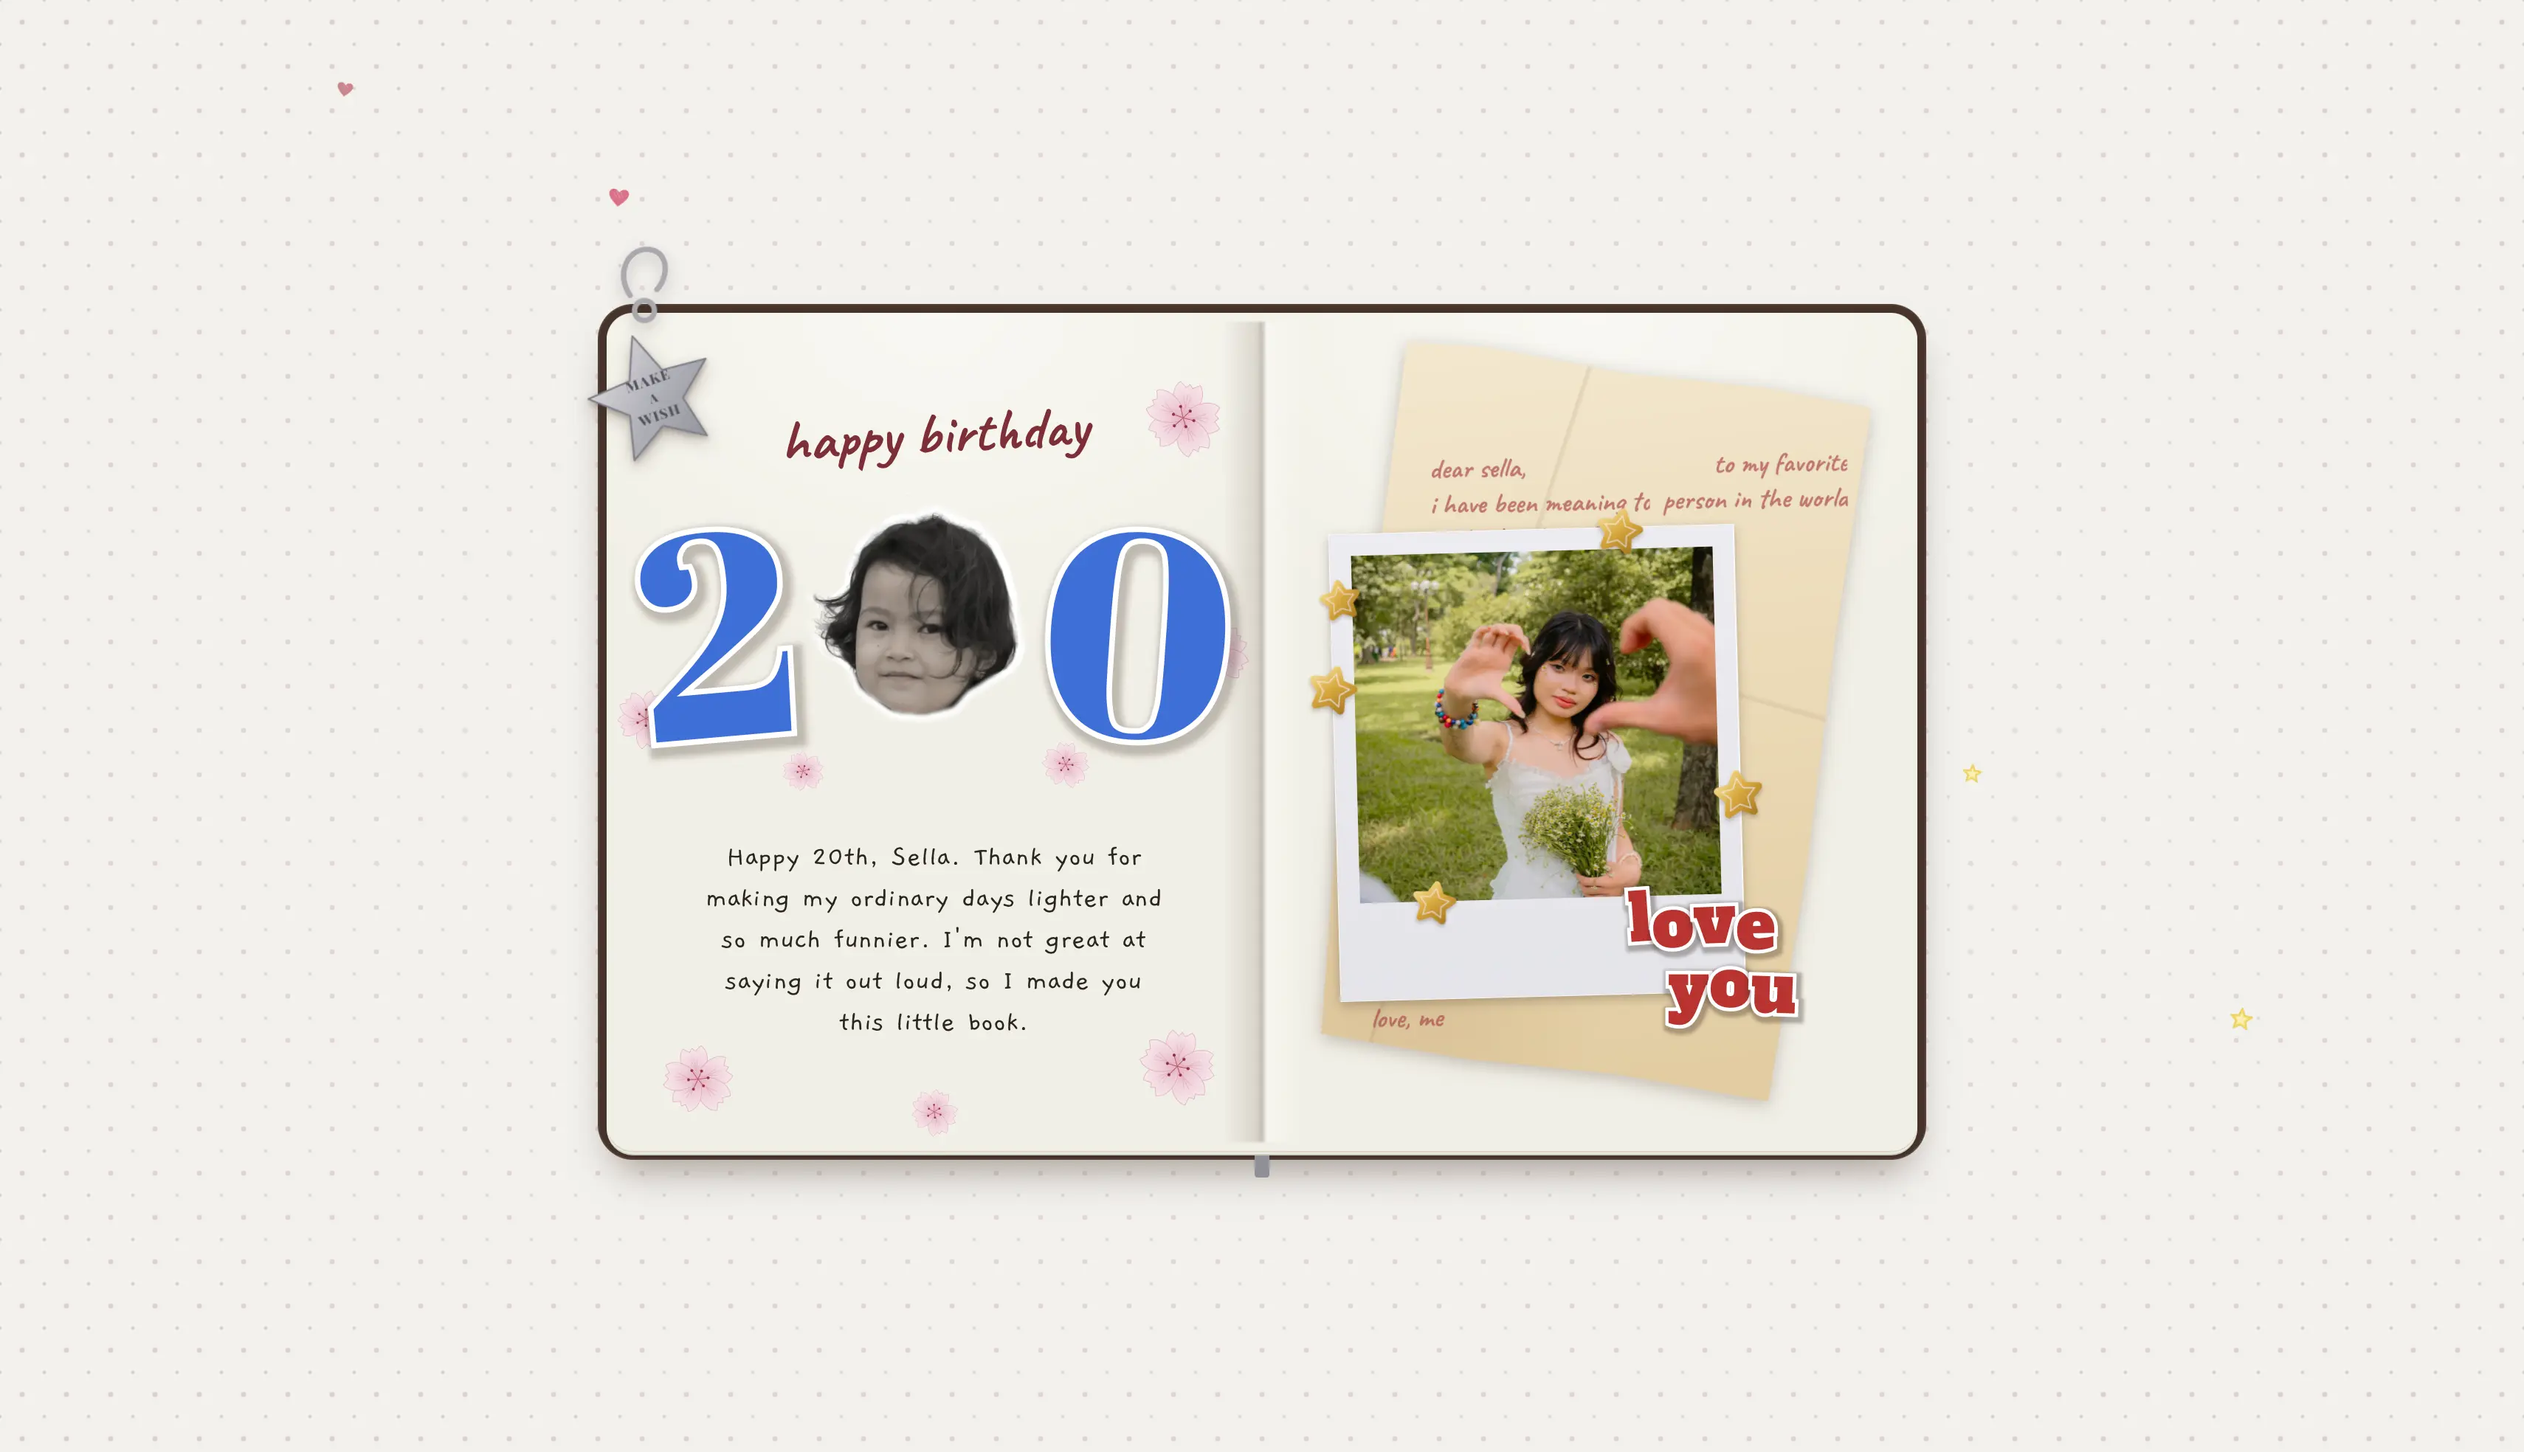
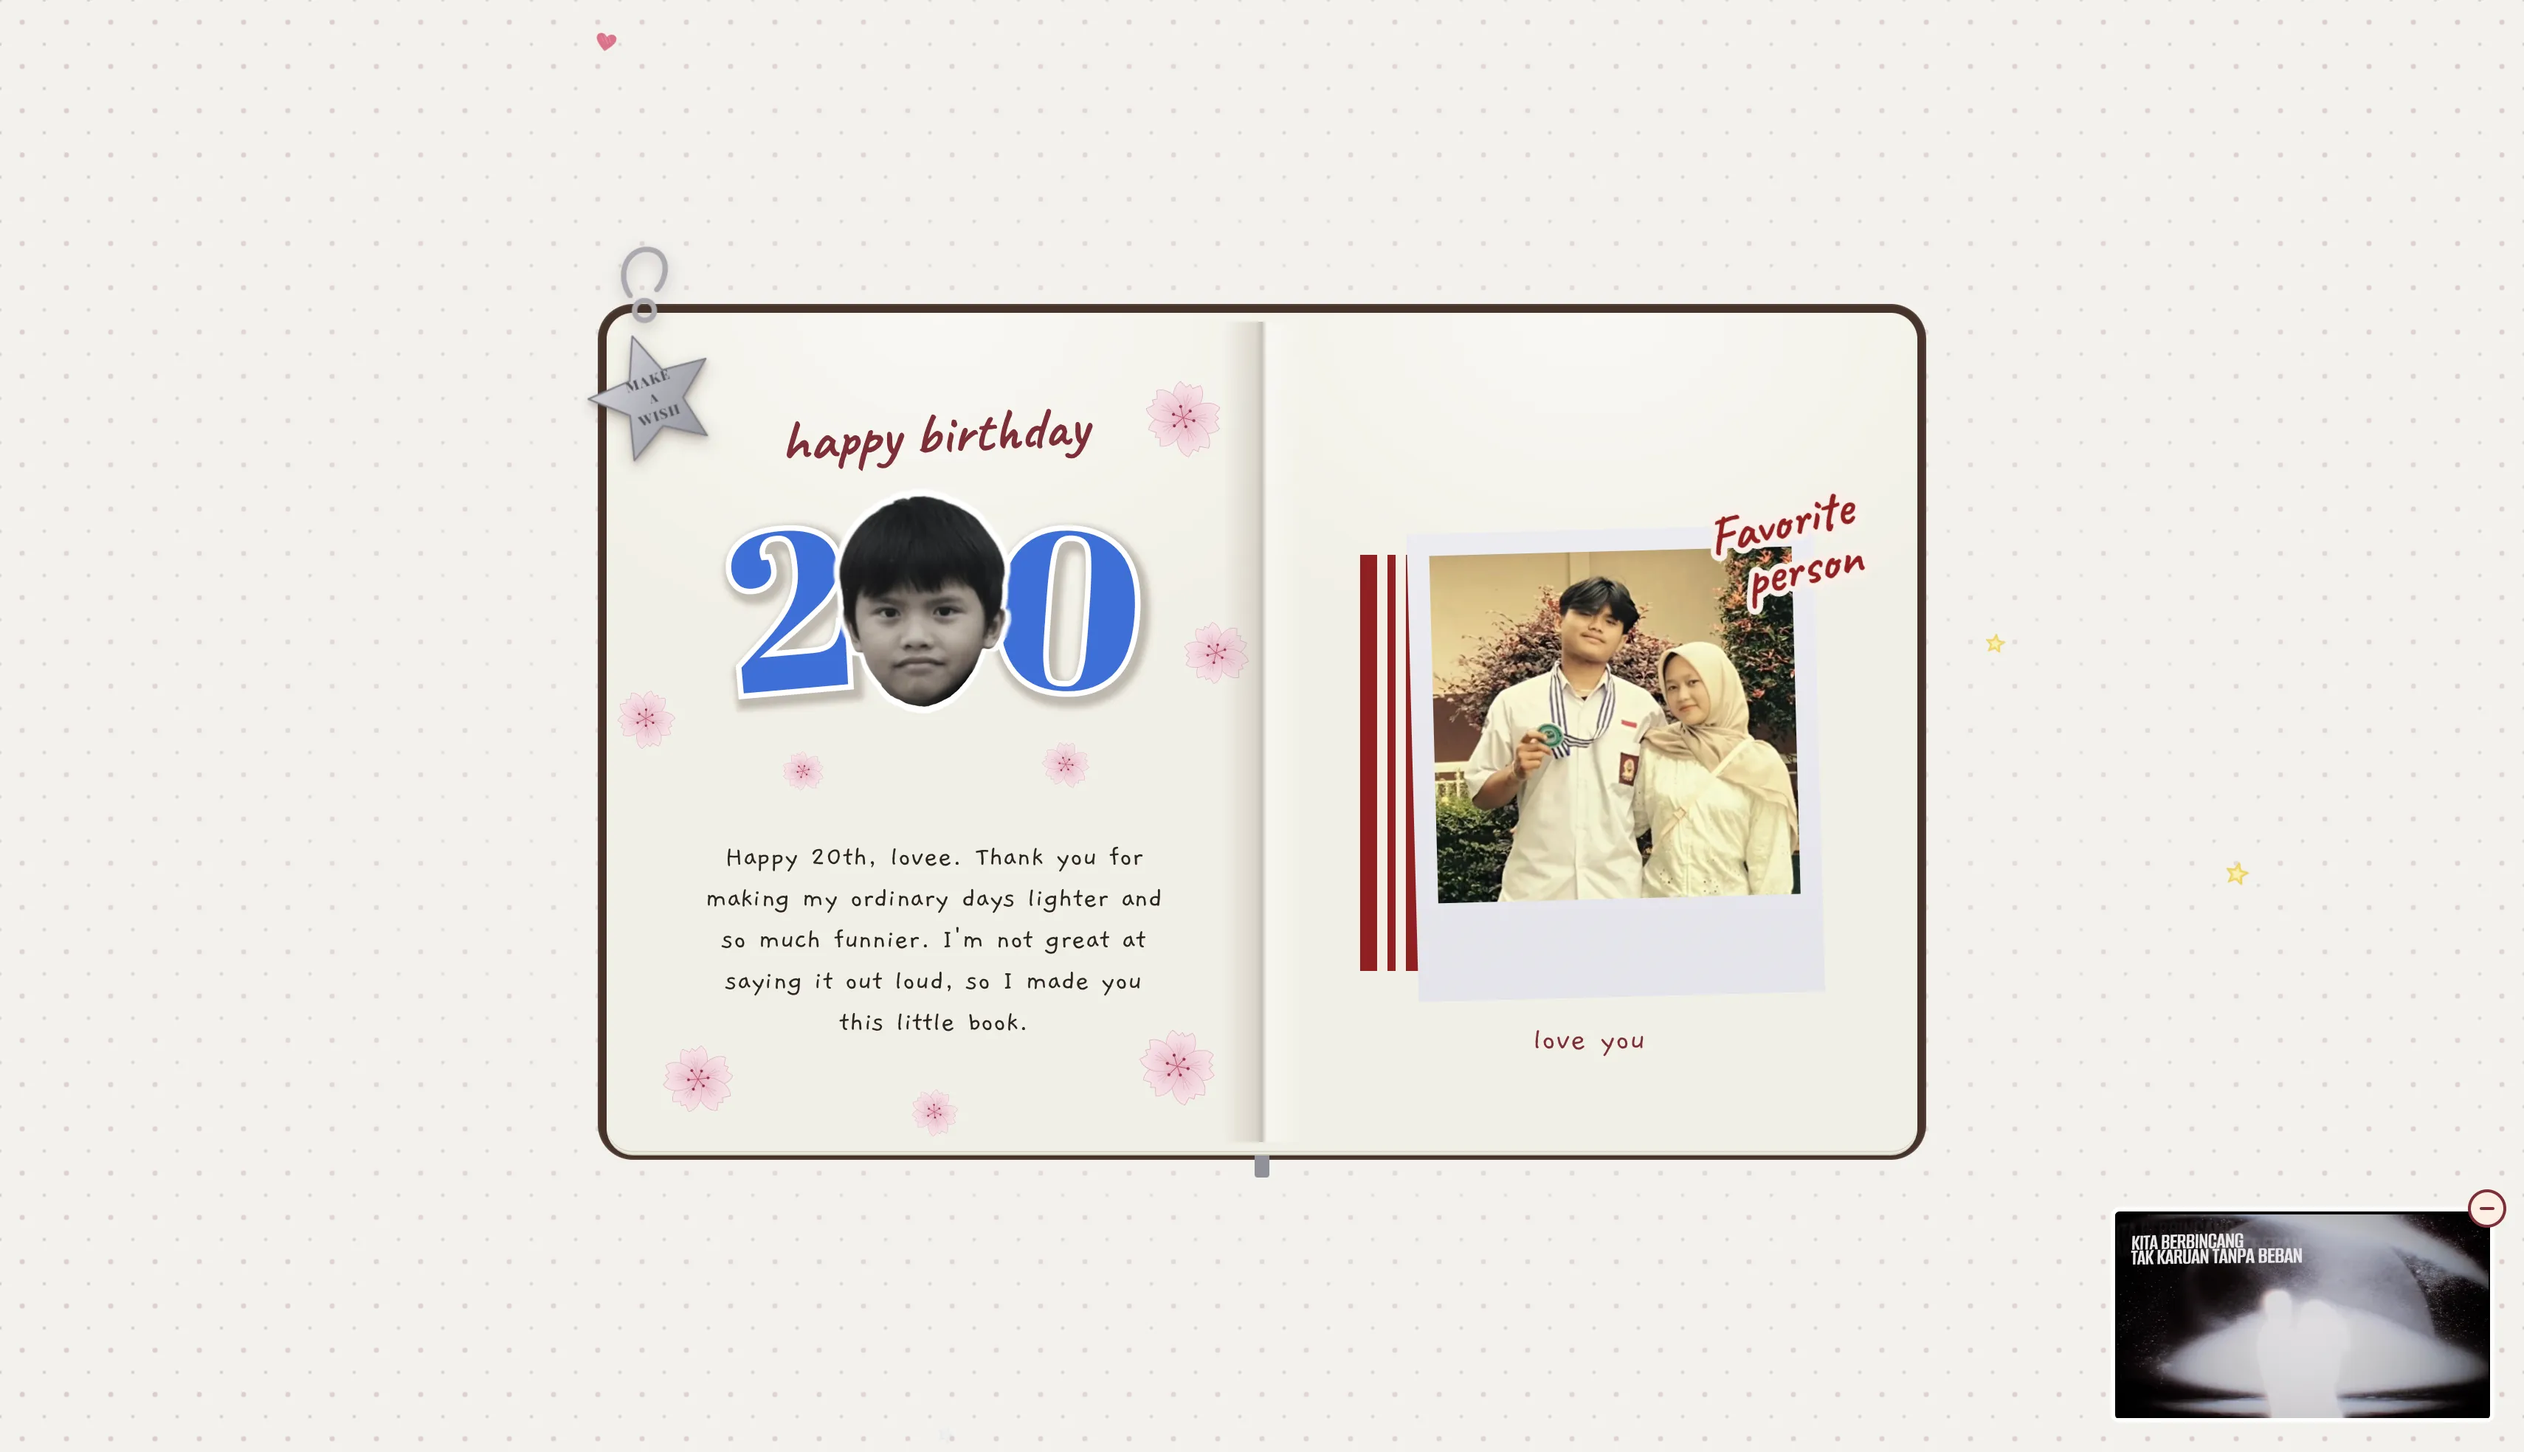
Update summary for MVG-01 template to correct pin number

diff --git a/src/data/templates.js b/src/data/templates.js
@@ -6,7 +6,7 @@ export const templates = [
     code: "MVG-01",
     name: "Birthday MVG-01",
     folder: "birthday_v1",
-    summary: "Minimalis romantic. Pin: 030308",
+    summary: "Minimalis romantic. Pin: 030326",
     price: 25000,
     previewUrl: "https://handmadesella.pages.dev",
     image: mvg01,
